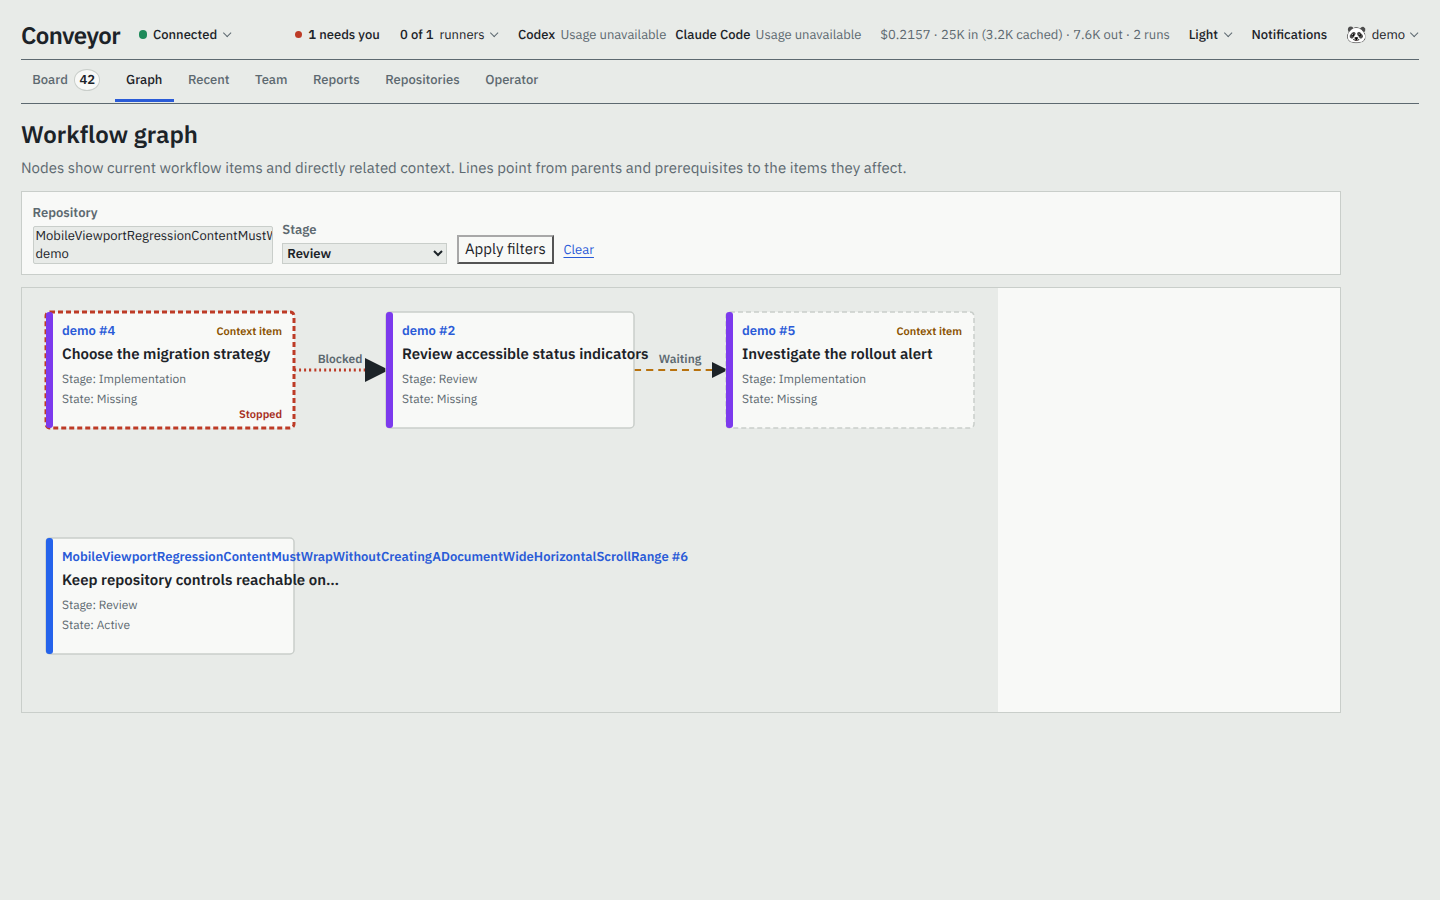
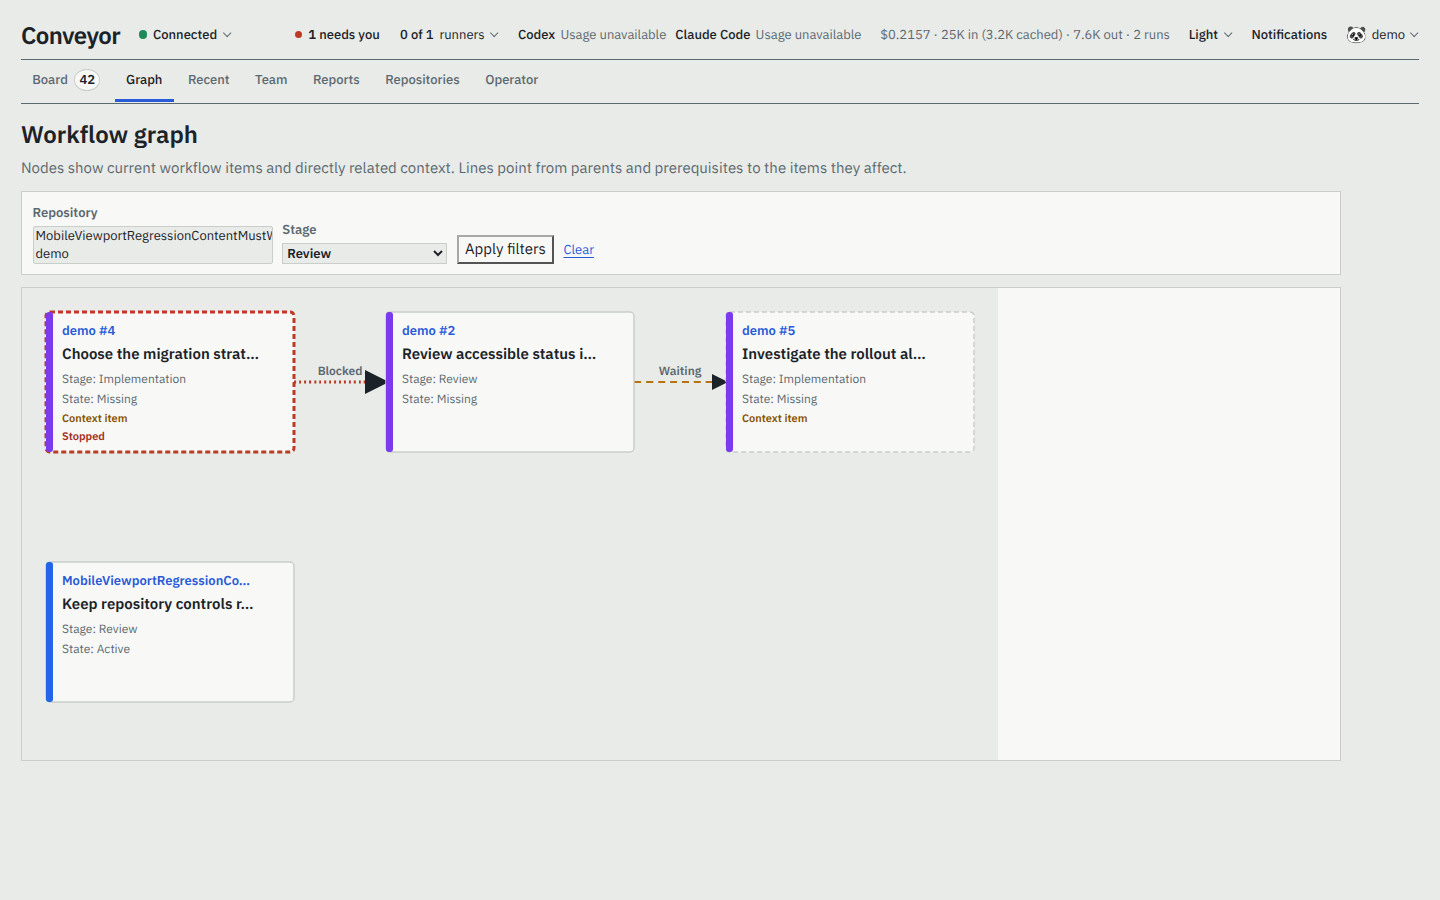
Fix Graph layout and accessibility

diff --git a/src/web/render.tsx b/src/web/render.tsx
@@ -867,10 +867,12 @@ function Board({ model }: { model: DashboardViewModel }) {
 }
 
 const GRAPH_NODE_WIDTH = 248;
-const GRAPH_NODE_HEIGHT = 116;
+const GRAPH_NODE_HEIGHT = 140;
 const GRAPH_COLUMN_GAP = 92;
 const GRAPH_ROW_GAP = 34;
 const GRAPH_GROUP_GAP = 76;
+const GRAPH_NODE_TEXT_X = 16;
+const GRAPH_NODE_TEXT_WIDTH = GRAPH_NODE_WIDTH - 28;
 
 interface GraphPosition { x: number; y: number; }
 
@@ -884,8 +886,8 @@ function graphEdgeId(relationship: GraphRelationshipViewModel): string {
   return `${relationship.kind}:${relationship.from}:${relationship.to}`;
 }
 
-function graphTitle(title: string): string {
-  return title.length > 38 ? `${title.slice(0, 37)}…` : title;
+function graphText(text: string, maximumCharacters: number): string {
+  return text.length > maximumCharacters ? `${text.slice(0, maximumCharacters - 1)}…` : text;
 }
 
 /** Produces stable left-to-right layers while putting unrelated graph components on separate rows. */
@@ -894,11 +896,13 @@ function graphLayout(nodes: readonly GraphNodeViewModel[], relationships: readon
   const nodeIds = new Set(sortedIds);
   const neighbours = new Map(sortedIds.map((id) => [id, new Set<string>()]));
   const predecessors = new Map(sortedIds.map((id) => [id, [] as string[]]));
-  for (const relationship of relationships) {
+  const successors = new Map(sortedIds.map((id) => [id, [] as string[]]));
+  for (const relationship of [...relationships].sort((left, right) => graphEdgeId(left).localeCompare(graphEdgeId(right)))) {
     if (!nodeIds.has(relationship.from) || !nodeIds.has(relationship.to)) continue;
     neighbours.get(relationship.from)?.add(relationship.to);
     neighbours.get(relationship.to)?.add(relationship.from);
     predecessors.get(relationship.to)?.push(relationship.from);
+    successors.get(relationship.from)?.push(relationship.to);
   }
   const components: string[][] = [];
   const remaining = new Set(sortedIds);
@@ -946,12 +950,41 @@ function graphLayout(nodes: readonly GraphNodeViewModel[], relationships: readon
       layer.push(id);
       layers.set(depth, layer);
     }
+    const layerDepths = [...layers.keys()].sort((left, right) => left - right);
+    for (const depth of layerDepths) layers.get(depth)?.sort((left, right) => left.localeCompare(right));
+    const orderByNeighbours = (ids: string[], neighboursAtOtherDepth: (id: string) => readonly string[], rowsById: Map<string, number>) => ids.sort((left, right) => {
+      const average = (id: string): number | undefined => {
+        const rows = neighboursAtOtherDepth(id)
+          .map((neighbour) => rowsById.get(neighbour))
+          .filter((row): row is number => row !== undefined);
+        return rows.length === 0 ? undefined : rows.reduce((total, row) => total + row, 0) / rows.length;
+      };
+      const leftAverage = average(left);
+      const rightAverage = average(right);
+      if (leftAverage === undefined && rightAverage === undefined) return left.localeCompare(right);
+      if (leftAverage === undefined) return 1;
+      if (rightAverage === undefined) return -1;
+      return leftAverage - rightAverage || left.localeCompare(right);
+    });
+    for (const depth of layerDepths.slice(1)) {
+      const prior = layers.get(depth - 1) ?? [];
+      const priorRows = new Map(prior.map((id, row) => [id, row]));
+      const layer = layers.get(depth);
+      if (layer) orderByNeighbours(layer, (id) => (predecessors.get(id) ?? []).filter((predecessor) => depths.get(predecessor) === depth - 1), priorRows);
+    }
+    for (const depth of [...layerDepths].reverse().slice(1)) {
+      const next = layers.get(depth + 1) ?? [];
+      const nextRows = new Map(next.map((id, row) => [id, row]));
+      const layer = layers.get(depth);
+      if (layer) orderByNeighbours(layer, (id) => (successors.get(id) ?? []).filter((successor) => depths.get(successor) === depth + 1), nextRows);
+    }
+
     let rows = 1;
-    for (const [depth, ids] of layers) {
-      const sorted = ids.sort((left, right) => left.localeCompare(right));
-      rows = Math.max(rows, sorted.length);
+    for (const depth of layerDepths) {
+      const layer = layers.get(depth) ?? [];
+      rows = Math.max(rows, layer.length);
       widestLayer = Math.max(widestLayer, depth + 1);
-      sorted.forEach((id, row) => positions.set(id, {
+      layer.forEach((id, row) => positions.set(id, {
         x: 24 + depth * (GRAPH_NODE_WIDTH + GRAPH_COLUMN_GAP),
         y: offsetY + row * (GRAPH_NODE_HEIGHT + GRAPH_ROW_GAP),
       }));
@@ -988,19 +1021,21 @@ function GraphRelationshipText({ relationship, nodesById }: { relationship: Grap
   const to = nodesById.get(relationship.to);
   if (!from || !to) return null;
   return relationship.kind === "parent-child"
-    ? <><strong>Parent #{from.number} → child #{to.number}</strong><span> Family relationship</span></>
-    : <><strong>Issue #{to.number} waits for prerequisite #{from.number}</strong><span> Status: {relationship.status} prerequisite</span></>;
+    ? <><strong>Parent #{from.number} ({from.title}) → child #{to.number} ({to.title})</strong><span> Family relationship</span></>
+    : <><strong>Issue #{to.number} ({to.title}) waits for prerequisite #{from.number} ({from.title})</strong><span> Status: {relationship.status} prerequisite</span></>;
 }
 
 /** A read-only, relationship-first view of the current workflow. */
 function Graph({ model }: { model: DashboardViewModel }) {
-  const nodesById = new Map(model.graph.nodes.map((node) => [node.id, node]));
-  if (model.graph.nodes.length === 0) return <section class="graph-view" aria-labelledby="graph-heading">
+  const nodes = [...model.graph.nodes].sort((left, right) => left.id.localeCompare(right.id));
+  const relationships = [...model.graph.relationships].sort((left, right) => graphEdgeId(left).localeCompare(graphEdgeId(right)));
+  const nodesById = new Map(nodes.map((node) => [node.id, node]));
+  if (nodes.length === 0) return <section class="graph-view" aria-labelledby="graph-heading">
     <header class="graph-header"><h2 id="graph-heading">Workflow graph</h2><p>Relationships between current workflow items appear here.</p></header>
     <GraphFilters model={model} />
     <p class="graph-empty">There are no current workflow items to show.</p>
   </section>;
-  const layout = graphLayout(model.graph.nodes, model.graph.relationships);
+  const layout = graphLayout(nodes, relationships);
   return <section class="graph-view" aria-labelledby="graph-heading">
     <header class="graph-header">
       <h2 id="graph-heading">Workflow graph</h2>
@@ -1008,14 +1043,14 @@ function Graph({ model }: { model: DashboardViewModel }) {
     </header>
     <GraphFilters model={model} />
     <div class="graph-canvas" tabindex={0} aria-label="Drawn workflow graph">
-      <svg class="graph-svg" viewBox={`0 0 ${layout.width} ${layout.height}`} width={layout.width} height={layout.height} role="img" aria-labelledby="graph-svg-title graph-svg-description">
+      <svg class="graph-svg" viewBox={`0 0 ${layout.width} ${layout.height}`} width={layout.width} height={layout.height} role="group" aria-labelledby="graph-svg-title graph-svg-description">
         <title id="graph-svg-title">Workflow graph</title>
         <desc id="graph-svg-description">A directed graph of current workflow items and their directly related context.</desc>
         <defs>
           <marker id="graph-arrow-parent" markerWidth="8" markerHeight="8" refX="7" refY="4" orient="auto"><path d="M 0 0 L 8 4 L 0 8 z" /></marker>
           <marker id="graph-arrow-dependency" markerWidth="8" markerHeight="8" refX="7" refY="4" orient="auto"><path d="M 0 0 L 8 4 L 0 8 z" /></marker>
         </defs>
-        {model.graph.relationships.flatMap((relationship) => {
+        {relationships.flatMap((relationship) => {
           const from = layout.positions.get(relationship.from);
           const to = layout.positions.get(relationship.to);
           if (!from || !to) return [];
@@ -1030,11 +1065,12 @@ function Graph({ model }: { model: DashboardViewModel }) {
             {relationship.kind === "dependency" && <text x={midX} y={(startY + endY) / 2 - 7} text-anchor="middle">{relationship.status === "satisfied" ? "Met" : relationship.status === "stopped" ? "Blocked" : "Waiting"}</text>}
           </g>;
         })}
-        {model.graph.nodes.map((node) => {
+        {nodes.map((node) => {
           const position = layout.positions.get(node.id);
           if (!position) return null;
           const label = `${node.repository} #${node.number}: ${node.title}${node.stage ? `; stage ${node.stage}` : ""}; state ${node.state}${node.context ? "; context item" : ""}${node.signal === "stop" ? "; stopped" : ""}`;
           const dialogId = `issue-${node.id.replace(/[^a-zA-Z0-9_-]/g, "-")}-${node.number}`;
+          const clipId = `graph-node-clip-${node.id.replace(/[^a-zA-Z0-9_-]/g, "-")}`;
           return <a href={issueHref(node.repository, node.number)} class={`graph-node card-open repo-color-${node.repositoryColor}${node.context ? " graph-node--context" : ""}${node.signal === "stop" ? " graph-node--stop" : ""}`} data-graph-node={node.id} data-dialog-open={dialogId} data-details-url={`/api/issues/${encodeURIComponent(node.id)}/details`} aria-haspopup="dialog" aria-label={label} tabIndex={0} key={node.id}>
             <title>{label}</title>
             <rect x={position.x} y={position.y} width={GRAPH_NODE_WIDTH} height={GRAPH_NODE_HEIGHT} rx="4" />
@@ -1047,19 +1083,25 @@ function Graph({ model }: { model: DashboardViewModel }) {
               height={GRAPH_NODE_HEIGHT}
               rx="3"
             />
-            <text class="graph-node-reference" x={position.x + 16} y={position.y + 23}>{node.repository} #{node.number}</text>
-            <text class="graph-node-title" x={position.x + 16} y={position.y + 47}>{graphTitle(node.title)}</text>
-            <text class="graph-node-detail" x={position.x + 16} y={position.y + 71}>Stage: {node.stage ?? "None"}</text>
-            <text class="graph-node-detail" x={position.x + 16} y={position.y + 91}>State: {node.state}</text>
-            {node.context && <text class="graph-node-badge" x={position.x + GRAPH_NODE_WIDTH - 12} y={position.y + 23} text-anchor="end">Context item</text>}
-            {node.signal === "stop" && <text class="graph-node-stop" x={position.x + GRAPH_NODE_WIDTH - 12} y={position.y + 106} text-anchor="end">Stopped</text>}
+            <clipPath id={clipId}><rect x={position.x + GRAPH_NODE_TEXT_X} y={position.y + 8} width={GRAPH_NODE_TEXT_WIDTH} height={GRAPH_NODE_HEIGHT - 16} /></clipPath>
+            <g clip-path={`url(#${clipId})`}>
+              <text class="graph-node-reference" x={position.x + GRAPH_NODE_TEXT_X} y={position.y + 23}>{graphText(`${node.repository} #${node.number}`, 27)}</text>
+              <text class="graph-node-title" x={position.x + GRAPH_NODE_TEXT_X} y={position.y + 47}>{graphText(node.title, 27)}</text>
+              <text class="graph-node-detail" x={position.x + GRAPH_NODE_TEXT_X} y={position.y + 71}>Stage: {graphText(node.stage ?? "None", 27)}</text>
+              <text class="graph-node-detail" x={position.x + GRAPH_NODE_TEXT_X} y={position.y + 91}>State: {graphText(node.state, 27)}</text>
+              {node.context && <text class="graph-node-badge" x={position.x + GRAPH_NODE_TEXT_X} y={position.y + 110}>Context item</text>}
+              {node.signal === "stop" && <text class="graph-node-stop" x={position.x + GRAPH_NODE_TEXT_X} y={position.y + 128}>Stopped</text>}
+            </g>
           </a>;
         })}
       </svg>
     </div>
     <section class="graph-relationships sr-only" aria-labelledby="graph-relationships-heading">
-      <h3 id="graph-relationships-heading">Directed relationships</h3>
-      <ol>{model.graph.relationships.flatMap((relationship) => {
+      <h3 id="graph-relationships-heading">Graph items and directed relationships</h3>
+      <h4>Items</h4>
+      <ol>{nodes.map((node) => <li key={node.id}>Issue #{node.number} ({node.title}): stage {node.stage ?? "None"}; state {node.state}{node.context ? "; context item" : ""}{node.signal === "stop" ? "; stopped" : ""}</li>)}</ol>
+      <h4>Relationships</h4>
+      <ol>{relationships.flatMap((relationship) => {
         if (!nodesById.has(relationship.from) || !nodesById.has(relationship.to)) return [];
         const statusClass = relationship.kind === "dependency" && relationship.status ? ` graph-relationship--${relationship.status}` : "";
         return <li class={`graph-relationship graph-relationship--${relationship.kind}${statusClass}`} key={graphEdgeId(relationship)}><GraphRelationshipText relationship={relationship} nodesById={nodesById} /></li>;

diff --git a/tests/web/render.test.ts b/tests/web/render.test.ts
@@ -301,9 +301,10 @@ describe("renderDashboard", () => {
         nodes: [
           { id: "parent", repository: "sample", repositoryColor: 1, number: 41, title: "Parent <safe> title that remains available in full", state: "Active", stage: "Implementation", context: false, signal: "run" },
           { id: "child", repository: "sample", repositoryColor: 1, number: 42, title: "Child", state: "Blocked", stage: "Review", context: false, signal: "stop" },
-          { id: "prerequisite", repository: "foundation", repositoryColor: 2, number: 7, title: "Finished prerequisite", state: "Done", stage: null, context: true, signal: null },
+          { id: "prerequisite", repository: "foundation-with-a-deliberately-long-name", repositoryColor: 2, number: 7, title: "Finished prerequisite", state: "Done", stage: null, context: true, signal: null },
           { id: "outstanding", repository: "foundation", repositoryColor: 2, number: 8, title: "Outstanding prerequisite", state: "Active", stage: null, context: true, signal: "run" },
           { id: "stopped", repository: "foundation", repositoryColor: 2, number: 9, title: "Stopped prerequisite", state: "Stopped", stage: null, context: true, signal: "stop" },
+          { id: "standalone", repository: "sample", repositoryColor: 1, number: 99, title: "Unconnected item title", state: "Active", stage: "Implementation", context: false, signal: "run" },
         ],
         relationships: [
           { kind: "parent-child", from: "parent", to: "child", status: null },
@@ -322,6 +323,8 @@ describe("renderDashboard", () => {
     expect(html).toContain('<a href="/graph" class="tab tab--active" aria-current="page">Graph</a>');
     expect(html).toContain('<a href="/board" class="tab">Board<span class="tab-count">43</span></a>');
     expect(html).toContain('<svg class="graph-svg"');
+    expect(html).toContain('role="group"');
+    expect(html).not.toContain('role="img" aria-labelledby="graph-svg-title');
     expect(html).toContain('data-graph-edge="parent-child:parent:child"');
     expect(html).toContain('data-graph-edge="dependency:prerequisite:child"');
     expect(html).toContain('class="graph-canvas"');
@@ -331,17 +334,71 @@ describe("renderDashboard", () => {
     expect(html).toContain('Parent &lt;safe> title that remains available in full');
     expect(html).not.toContain("Parent <safe>");
     expect(html).toMatch(/class="graph-node-title"[^>]*>[^<]*…<\/text>/);
+    expect(html).toMatch(/class="graph-node-reference"[^>]*>[^<]*…<\/text>/);
+    expect(html).toContain('clipPath id="graph-node-clip-parent"');
+    expect(html).toContain('clip-path="url(#graph-node-clip-parent)"');
     expect(html).toContain('href="/issues/sample/41"');
     expect(html).toContain('data-details-url="/api/issues/parent/details"');
     expect(html).toContain('aria-haspopup="dialog"');
-    expect(html).toContain("Parent #41 → child #42");
-    expect(html).toContain("Issue #42 waits for prerequisite #7");
+    expect(html).toContain("Parent #41 (Parent &lt;safe> title that remains available in full) → child #42 (Child)");
+    expect(html).toContain("Issue #42 (Child) waits for prerequisite #7 (Finished prerequisite)");
+    expect(html).toContain("Issue #99 (Unconnected item title): stage Implementation; state Active");
     expect(html).toContain("Status: satisfied prerequisite");
     expect(html).toContain("graph-relationship--satisfied");
     expect(html).toContain("graph-relationship--outstanding");
     expect(html).toContain("graph-relationship--stopped");
     expect(html).toContain("Context item");
     expect(html).toContain("Stopped");
+  });
+
+  test("keeps branching Graphs stable, uncrossed, and separate from unrelated components", () => {
+    const nodes: DashboardViewModel["graph"]["nodes"] = [
+      { id: "parent", repository: "sample", repositoryColor: 1, number: 1, title: "Parent", state: "Active", stage: "Implementation", context: false, signal: "run" },
+      { id: "branch-a", repository: "sample", repositoryColor: 1, number: 2, title: "First child", state: "Active", stage: "Implementation", context: false, signal: "run" },
+      { id: "branch-b", repository: "sample", repositoryColor: 1, number: 3, title: "Second child", state: "Active", stage: "Implementation", context: false, signal: "run" },
+      { id: "end-a", repository: "sample", repositoryColor: 1, number: 4, title: "Second dependency target", state: "Active", stage: "Review", context: false, signal: "run" },
+      { id: "end-b", repository: "sample", repositoryColor: 1, number: 5, title: "First dependency target", state: "Active", stage: "Review", context: false, signal: "run" },
+      { id: "unrelated", repository: "other", repositoryColor: 2, number: 6, title: "Unrelated item", state: "Active", stage: "Implementation", context: false, signal: "run" },
+    ];
+    const relationships: DashboardViewModel["graph"]["relationships"] = [
+      { kind: "parent-child", from: "parent", to: "branch-a", status: null },
+      { kind: "parent-child", from: "parent", to: "branch-b", status: null },
+      { kind: "dependency", from: "branch-a", to: "end-b", status: "outstanding" },
+      { kind: "dependency", from: "branch-b", to: "end-a", status: "outstanding" },
+    ];
+    const renderGraph = (graphNodes: DashboardViewModel["graph"]["nodes"], graphRelationships: DashboardViewModel["graph"]["relationships"]) => renderDashboard({
+      ...dashboard,
+      view: "graph",
+      graph: { nodes: graphNodes, relationships: graphRelationships },
+    });
+    const html = renderGraph(nodes, relationships);
+    const reorderedHtml = renderGraph([...nodes].reverse(), [...relationships].reverse());
+    const nodePosition = (id: string) => {
+      const match = html.match(new RegExp(`data-graph-node="${id}"[\\s\\S]*?<rect x="(\\d+)" y="(\\d+)" width="248" height="140"`));
+      if (!match?.[1] || !match[2]) throw new Error(`Missing Graph node position for ${id}`);
+      return { x: Number(match[1]), y: Number(match[2]) };
+    };
+    const parent = nodePosition("parent");
+    const branchA = nodePosition("branch-a");
+    const branchB = nodePosition("branch-b");
+    const endA = nodePosition("end-a");
+    const endB = nodePosition("end-b");
+    const unrelated = nodePosition("unrelated");
+    const edgeRows = (id: string) => {
+      const match = html.match(new RegExp(`data-graph-edge="${id}">[\\s\\S]*?<path d="M \\d+ (\\d+) C \\d+ \\d+, \\d+ \\d+, \\d+ (\\d+)"`));
+      if (!match?.[1] || !match[2]) throw new Error(`Missing Graph edge positions for ${id}`);
+      return { from: Number(match[1]), to: Number(match[2]) };
+    };
+    const firstDependency = edgeRows("dependency:branch-a:end-b");
+    const secondDependency = edgeRows("dependency:branch-b:end-a");
+
+    expect(html).toBe(reorderedHtml);
+    expect(parent.x).toBeLessThan(branchA.x);
+    expect(branchA.y).toBeLessThan(branchB.y);
+    expect(endB.y).toBeLessThan(endA.y);
+    expect(firstDependency.from).toBeLessThan(secondDependency.from);
+    expect(firstDependency.to).toBeLessThan(secondDependency.to);
+    expect(unrelated.y).toBeGreaterThan(Math.max(parent.y, branchA.y, branchB.y, endA.y, endB.y) + 140);
   });
 
   test("renders an empty Graph without board columns", () => {

diff --git a/tests/web/refresh-position.test.ts b/tests/web/refresh-position.test.ts
@@ -306,7 +306,7 @@ describe("dashboard live refresh position", () => {
           nodes: [
             { id: "parent", repository: "sample", repositoryColor: 1, number: 41, title: "A deliberately long parent title that must wrap inside a phone viewport", state: "Active", stage: "Implementation", context: false, signal: "run" },
             { id: "child", repository: "sample", repositoryColor: 1, number: 42, title: "A deliberately long child title that must also wrap inside a phone viewport", state: "Blocked", stage: "Review", context: false, signal: "stop" },
-            { id: "prerequisite", repository: "foundation", repositoryColor: 2, number: 7, title: "Context prerequisite", state: "Done", stage: null, context: true, signal: null },
+            { id: "prerequisite", repository: "foundation-with-a-deliberately-long-name", repositoryColor: 2, number: 7, title: "Context prerequisite", state: "Done", stage: null, context: true, signal: null },
           ],
           relationships: [
             { kind: "parent-child", from: "parent", to: "child", status: null },
@@ -327,6 +327,14 @@ describe("dashboard live refresh position", () => {
       expect(await page.locator(".graph-relationship--dependency").textContent()).toContain("Status: stopped prerequisite");
       expect(await page.locator(".graph-canvas").evaluate((canvas) => canvas.scrollWidth > canvas.clientWidth)).toBe(true);
       expect(await page.evaluate(() => document.documentElement.scrollWidth <= window.innerWidth)).toBe(true);
+      expect(await page.locator(".graph-node text").evaluateAll((texts) => texts.every((text) => {
+        const node = text.closest(".graph-node");
+        if (!node) return false;
+        const textBounds = text.getBoundingClientRect();
+        const nodeBounds = node.getBoundingClientRect();
+        return textBounds.left >= nodeBounds.left && textBounds.right <= nodeBounds.right
+          && textBounds.top >= nodeBounds.top && textBounds.bottom <= nodeBounds.bottom;
+      }))).toBe(true);
 
       await page.locator('[data-graph-node="child"]').click({ noWaitAfter: true });
       await page.waitForFunction(() => document.querySelector('dialog.issue-details[open]')?.getAttribute('data-issue-id') === 'child');
